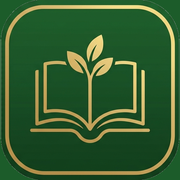
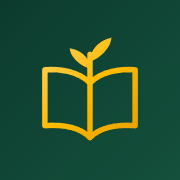
성경 조판 완화 + PWA 아이콘 금테 제거 + 성경통독 타이포/정렬 정리
성경 본문
- 행간 1.62 -> 1.5, 굵기 600 -> 500 (너무 볼드하던 문제)
- NIV 영문을 한글과 동일한 행간/굵기/크기로 통일 (md 구간 크기가 달라 실제 행간이 어긋나던 것 수정)

PWA 아이콘
- 금색 사각 테두리가 가장자리에 붙어 있어 OS 마스크에 잘리던 문제 해결
- 테두리를 없애고 문양을 안전영역 안쪽(마스커블 24%, 일반 17%)으로 재배치
- icon-192 / icon-512 / icon-maskable-512 / apple-touch-icon 4종 재생성
- manifest 색상을 새 팔레트로, sw 캐시 v3 -> v4 (옛 아이콘 캐시 무효화)

성경통독 탭
- 글자 크기 7종 -> 4종 (제목 / 소제목 / 본문 / 캡션)
- 굵기 5종 -> 2종 (bold / medium), 보조 설명은 medium 으로 낮춰 위계 확보
- 좌측 정렬: 카드 안쪽 여백이 p-4 / p-3.5 / p-2.5 로 제각각이라 글 시작 위치가
  카드마다 어긋나던 문제를 p-4 sm:p-6 으로 통일 (실측 결과 전 카드 x=22 로 일치)

diff --git a/src/components/BibleReader.tsx b/src/components/BibleReader.tsx
@@ -358,7 +358,7 @@ export default function BibleReader({ currentUser, onSelectVerseForMeditation, i
                   <span className="font-bold text-[#D2DDD3] flex items-center gap-1.5">
                     목표: {userProgress?.goalTitle || "1년 1독 (전체 1,189장)"}
                   </span>
-                  <span className="font-black text-[#FFFFFF] text-sm">
+                  <span className="font-bold text-[#FFFFFF] text-sm">
                     {completedCount}장 / {targetCount}장 ({progressPercent}%)
                   </span>
                 </div>
@@ -371,7 +371,7 @@ export default function BibleReader({ currentUser, onSelectVerseForMeditation, i
                   />
                 </div>
 
-                <div className="flex justify-between items-center text-2xs text-[#D2DDD3]/80 mt-2 font-medium">
+                <div className="flex justify-between items-center text-xs text-[#D2DDD3]/80 mt-2 font-medium">
                   <span>일일 추천: 하루 {userProgress?.dailyTarget || 3}장씩</span>
                   <span>남은 분량: {Math.max(0, targetCount - completedCount)}장</span>
                 </div>
@@ -380,7 +380,7 @@ export default function BibleReader({ currentUser, onSelectVerseForMeditation, i
               {/* Today's Bookmark / Last Read Box */}
               <div className="bg-white/10 p-4 rounded-3xl flex flex-col justify-between">
                 <div>
-                  <span className="text-2xs text-[#D2DDD3]/80 font-bold block flex items-center gap-1">
+                  <span className="text-xs text-[#D2DDD3]/80 font-bold block flex items-center gap-1">
                     마지막 읽은 본문 북마크
                   </span>
                   <strong className="text-base font-bold text-white block mt-1">
@@ -408,11 +408,11 @@ export default function BibleReader({ currentUser, onSelectVerseForMeditation, i
       )}
 
       {/* 2. 원터치 성경 네비게이터 (구약/신약 → 권 → 장 → 절) */}
-      <div className="bg-white rounded-3xl sm:rounded-[32px] shadow-sm p-3.5 sm:p-5 space-y-3 sm:space-y-4">
+      <div className="bg-white rounded-3xl sm:rounded-[32px] shadow-sm p-4 sm:p-6 space-y-3 sm:space-y-4">
         <div className="flex items-center gap-2 border-b border-[#E3E9E2] pb-3">
           <div>
-            <h4 className="font-bold text-[#0C3B2E] text-base sm:text-lg">성경 선택</h4>
-            <p className="text-xs text-[#6F8377]">구약 · 신약에서 권 · 장 · 절을 눌러 바로 펼쳐 보세요.</p>
+            <h4 className="font-bold text-[#0C3B2E] text-base sm:text-base">성경 선택</h4>
+            <p className="text-xs text-[#6F8377] font-medium">구약 · 신약에서 권 · 장 · 절을 눌러 바로 펼쳐 보세요.</p>
           </div>
         </div>
 
@@ -436,7 +436,7 @@ export default function BibleReader({ currentUser, onSelectVerseForMeditation, i
 
         {/* Custom Search Input */}
         <div className="pt-3 border-t border-[#E3E9E2] space-y-1.5">
-          <label className="flex items-center gap-1.5 text-xs font-bold text-[#6F8377]">
+          <label className="flex items-center gap-1.5 text-xs font-medium text-[#6F8377]">
             단어로 구절 찾기
           </label>
           <form
@@ -453,7 +453,7 @@ export default function BibleReader({ currentUser, onSelectVerseForMeditation, i
                 value={query}
                 onChange={(e) => setQuery(e.target.value)}
                 placeholder="단어로 구절 찾기 (예: 사랑, 요한복음 1장, 로마서 8:28)..."
-                className="w-full pl-3 pr-9 py-2.5 bg-[#F5F5F5] rounded-3xl text-xs font-semibold text-[#14261E] focus:outline-none focus:ring-2 focus:ring-[#4A6B57]"
+                className="w-full pl-3 pr-9 py-2.5 bg-[#F5F5F5] rounded-3xl text-xs font-bold text-[#14261E] focus:outline-none focus:ring-2 focus:ring-[#4A6B57]"
               />
               <button
                 type="submit"
@@ -478,7 +478,7 @@ export default function BibleReader({ currentUser, onSelectVerseForMeditation, i
       <div ref={readerRef} className="scroll-mt-4" />
       <AnimatePresence mode="wait">
         {loading && (
-          <div className="bg-white rounded-[32px] p-12 text-center shadow-sm">
+          <div className="bg-white rounded-[32px] p-4 sm:p-6 py-12 text-center shadow-sm">
             <Loader className="animate-spin text-[#4A6B57] mx-auto mb-3" size={32} />
             <p className="text-sm font-bold text-[#0C3B2E]">성경 본문을 불러오고 있습니다...</p>
             <p className="text-xs text-[#6F8377] mt-1">1절부터 그 장의 마지막 절까지 전체 구절을 준비 중입니다.</p>
@@ -486,7 +486,7 @@ export default function BibleReader({ currentUser, onSelectVerseForMeditation, i
         )}
 
         {!loading && error && (
-          <div className="bg-[#FDF3F3] rounded-3xl sm:rounded-[32px] p-6 text-center text-[#7A1913] text-xs sm:text-sm font-semibold space-y-3">
+          <div className="bg-[#FDF3F3] rounded-3xl sm:rounded-[32px] p-4 sm:p-6 text-center text-[#7A1913] text-xs sm:text-sm font-bold space-y-3">
             <p>{error}</p>
             <button
               type="button"
@@ -507,11 +507,11 @@ export default function BibleReader({ currentUser, onSelectVerseForMeditation, i
             className="space-y-4"
           >
             {/* Main Chapter Content Card */}
-            <div className="bg-white rounded-3xl sm:rounded-[32px] p-2.5 sm:p-6 md:p-8 shadow-sm space-y-2.5 sm:space-y-4">
+            <div className="bg-white rounded-3xl sm:rounded-[32px] p-4 sm:p-6 shadow-sm space-y-2.5 sm:space-y-4">
               <div className="flex flex-col sm:flex-row justify-between items-start sm:items-center gap-2.5 border-b border-[#E3E9E2] pb-3">
                 <div className="w-full sm:w-auto">
                   <div className="flex flex-wrap items-center gap-1.5 mb-1">
-                    <span className="text-2xs sm:text-xs font-bold text-[#0C3B2E] bg-[#F5F5F5] px-2.5 py-0.5 rounded-full inline-flex items-center gap-1.5 whitespace-nowrap shrink-0">
+                    <span className="text-xs sm:text-xs font-bold text-[#0C3B2E] bg-[#F5F5F5] px-2.5 py-0.5 rounded-full inline-flex items-center gap-1.5 whitespace-nowrap shrink-0">
                       {userProgress?.lastReadBook && userProgress?.lastReadChapter ? (
                         `내가 직전 통독 위치: ${userProgress.lastReadBook} ${userProgress.lastReadChapter}장`
                       ) : (
@@ -519,12 +519,12 @@ export default function BibleReader({ currentUser, onSelectVerseForMeditation, i
                       )}
                     </span>
                     {userProgress?.lastReadBook === selectedBook.name && userProgress?.lastReadChapter === selectedChapter && (
-                      <span className="text-2xs font-bold text-[#0C3B2E] bg-[#F5F5F5] px-2 py-0.5 rounded-full inline-flex items-center gap-1 whitespace-nowrap shrink-0">
+                      <span className="text-xs font-bold text-[#0C3B2E] bg-[#F5F5F5] px-2 py-0.5 rounded-full inline-flex items-center gap-1 whitespace-nowrap shrink-0">
                         ✨ 이어서 보는 중
                       </span>
                     )}
                   </div>
-                  <h3 className="text-lg sm:text-2xl font-bold text-[#0C3B2E] flex items-center gap-2">
+                  <h3 className="text-base sm:text-2xl font-bold text-[#0C3B2E] flex items-center gap-2">
                     <span>{result.reference}</span>
                   </h3>
                 </div>
@@ -643,9 +643,9 @@ export default function BibleReader({ currentUser, onSelectVerseForMeditation, i
               <div className="bg-[#F5F5F5]/60 rounded-[32px] p-5">
                 <div className="flex items-center gap-1.5 text-[#0C3B2E] mb-2">
                   <Sparkles size={15} className="text-[#4A6B57]" />
-                  <span className="text-2xs font-black uppercase tracking-[0.1em] text-[#6F8377]">오늘의 통독 실천 제안</span>
+                  <span className="text-xs font-bold uppercase tracking-[0.1em] text-[#6F8377]">오늘의 통독 실천 제안</span>
                 </div>
-                <p className="text-xs text-[#0C3B2E] leading-relaxed font-semibold">
+                <p className="text-xs text-[#0C3B2E] leading-relaxed font-bold">
                   {result.meditationGuide}
                 </p>
               </div>
@@ -669,7 +669,7 @@ export default function BibleReader({ currentUser, onSelectVerseForMeditation, i
               className="bg-white w-full sm:max-w-2xl max-h-[88vh] rounded-t-3xl sm:rounded-[32px] p-4 sm:p-6 flex flex-col shadow-2xl"
             >
               <div className="flex justify-between items-center border-b border-[#E3E9E2] pb-3">
-                <h4 className="font-bold text-[#0C3B2E] text-base sm:text-lg flex items-center gap-2">
+                <h4 className="font-bold text-[#0C3B2E] text-base sm:text-base flex items-center gap-2">
                   <span
                     className={`inline-flex items-center justify-center w-7 h-7 rounded-3xl shrink-0 ${
                       navTestament === 'OT' ? "bg-[#FFBA00] text-[#0C3B2E]" : "bg-[#0C3B2E] text-white"
@@ -752,7 +752,7 @@ export default function BibleReader({ currentUser, onSelectVerseForMeditation, i
                           }`}
                         >
                           {ch}
-                          {isDone && <span className="absolute top-0.5 right-1 text-2xs">✓</span>}
+                          {isDone && <span className="absolute top-0.5 right-1 text-xs">✓</span>}
                         </button>
                       );
                     })}
@@ -762,7 +762,7 @@ export default function BibleReader({ currentUser, onSelectVerseForMeditation, i
                 {/* STEP 3: 절 선택 */}
                 {navStep === 'verse' && navBook && navChapter && (
                   <div className="space-y-2.5">
-                    <p className="text-xs font-bold text-[#6F8377]">
+                    <p className="text-xs font-medium text-[#6F8377]">
                       절을 누르면 팝업이 닫히고 본문에서 그 절로 이동합니다.
                     </p>
                     {navVerseLoading ? (
@@ -783,7 +783,7 @@ export default function BibleReader({ currentUser, onSelectVerseForMeditation, i
                         ))}
                       </div>
                     ) : (
-                      <p className="py-4 text-center text-xs text-[#6F8377]">절 정보를 표시할 수 없습니다.</p>
+                      <p className="py-4 text-center text-xs text-[#6F8377] font-medium">절 정보를 표시할 수 없습니다.</p>
                     )}
                   </div>
                 )}
@@ -842,7 +842,7 @@ export default function BibleReader({ currentUser, onSelectVerseForMeditation, i
                     value={goalTitle}
                     onChange={(e) => setGoalTitle(e.target.value)}
                     placeholder="예: 1년 1독, 신약 통독, 100일 성경통독"
-                    className="w-full p-2.5 bg-[#F5F5F5] rounded-3xl text-[#14261E] font-semibold focus:ring-2 focus:ring-[#4A6B57]"
+                    className="w-full p-2.5 bg-[#F5F5F5] rounded-3xl text-[#14261E] font-bold focus:ring-2 focus:ring-[#4A6B57]"
                     required
                   />
                 </div>
@@ -857,7 +857,7 @@ export default function BibleReader({ currentUser, onSelectVerseForMeditation, i
                         setTargetChapters(1189);
                         setDailyTarget(3);
                       }}
-                      className={`p-2 rounded-3xl text-2xs font-bold border transition cursor-pointer ${
+                      className={`p-2 rounded-3xl text-xs font-bold border transition cursor-pointer ${
                         targetChapters === 1189 ? "bg-[#0C3B2E] text-white border-[#0C3B2E]" : "bg-[#F5F5F5] text-[#4A6B57] hover:bg-[#D2DDD3]"
                       }`}
                     >
@@ -870,7 +870,7 @@ export default function BibleReader({ currentUser, onSelectVerseForMeditation, i
                         setTargetChapters(260);
                         setDailyTarget(2);
                       }}
-                      className={`p-2 rounded-3xl text-2xs font-bold border transition cursor-pointer ${
+                      className={`p-2 rounded-3xl text-xs font-bold border transition cursor-pointer ${
                         targetChapters === 260 ? "bg-[#0C3B2E] text-white border-[#0C3B2E]" : "bg-[#F5F5F5] text-[#4A6B57] hover:bg-[#D2DDD3]"
                       }`}
                     >
@@ -883,7 +883,7 @@ export default function BibleReader({ currentUser, onSelectVerseForMeditation, i
                         setTargetChapters(929);
                         setDailyTarget(3);
                       }}
-                      className={`p-2 rounded-3xl text-2xs font-bold border transition cursor-pointer ${
+                      className={`p-2 rounded-3xl text-xs font-bold border transition cursor-pointer ${
                         targetChapters === 929 ? "bg-[#0C3B2E] text-white border-[#0C3B2E]" : "bg-[#F5F5F5] text-[#4A6B57] hover:bg-[#D2DDD3]"
                       }`}
                     >
@@ -894,7 +894,7 @@ export default function BibleReader({ currentUser, onSelectVerseForMeditation, i
                     type="number"
                     value={targetChapters}
                     onChange={(e) => setTargetChapters(Number(e.target.value))}
-                    className="w-full p-2.5 bg-[#F5F5F5] rounded-3xl text-[#14261E] font-semibold"
+                    className="w-full p-2.5 bg-[#F5F5F5] rounded-3xl text-[#14261E] font-bold"
                     min={1}
                     max={1189}
                     required
@@ -907,7 +907,7 @@ export default function BibleReader({ currentUser, onSelectVerseForMeditation, i
                     type="number"
                     value={dailyTarget}
                     onChange={(e) => setDailyTarget(Number(e.target.value))}
-                    className="w-full p-2.5 bg-[#F5F5F5] rounded-3xl text-[#14261E] font-semibold"
+                    className="w-full p-2.5 bg-[#F5F5F5] rounded-3xl text-[#14261E] font-bold"
                     min={1}
                     max={50}
                     required
@@ -952,7 +952,7 @@ export default function BibleReader({ currentUser, onSelectVerseForMeditation, i
                     <ListChecks className="text-[#4A6B57]" size={20} />
                     {currentUser?.name} 성도님의 성경 66권 통독 체크리스트
                   </h4>
-                  <p className="text-2xs text-[#6F8377]">
+                  <p className="text-xs text-[#6F8377] font-medium">
                     초록색 체크 항목은 내가 이미 완독한 장입니다. 클릭하면 완독 여부를 언제든지 변경할 수 있습니다.
                   </p>
                 </div>
@@ -1001,7 +1001,7 @@ export default function BibleReader({ currentUser, onSelectVerseForMeditation, i
                       type="button"
                       onClick={() => setChecklistTab('IN_PROGRESS')}
                       className={`px-3 py-1.5 rounded-xl transition cursor-pointer whitespace-nowrap flex items-center gap-1 ${
-                        checklistTab === 'IN_PROGRESS' ? "bg-[#0C3B2E] text-white" : "hover:text-[#072A20] text-[#0C3B2E] font-black"
+                        checklistTab === 'IN_PROGRESS' ? "bg-[#0C3B2E] text-white" : "hover:text-[#072A20] text-[#0C3B2E] font-bold"
                       }`}
                     >
                       🔥 통독 진행 중
@@ -1075,17 +1075,17 @@ export default function BibleReader({ currentUser, onSelectVerseForMeditation, i
                     }`}>
                       <div className="flex justify-between items-center mb-2">
                         <span className="font-bold text-[#0C3B2E] text-sm flex items-center gap-2">
-                          <span className="text-2xs bg-[#F5F5F5] text-[#0C3B2E] px-2 py-0.5 rounded-full font-black">
+                          <span className="text-xs bg-[#F5F5F5] text-[#0C3B2E] px-2 py-0.5 rounded-full font-bold">
                             {b.testament === 'OT' ? '구약' : '신약'}
                           </span>
                           {b.name} ({b.chapters}장)
                           {isLastReadBook && (
-                            <span className="text-2xs font-extrabold bg-[#C7D8C9] text-[#0C3B2E] px-2 py-0.5 rounded-full">
+                            <span className="text-xs font-bold bg-[#C7D8C9] text-[#0C3B2E] px-2 py-0.5 rounded-full">
                               📍 내가 읽는 중
                             </span>
                           )}
                         </span>
-                        <span className="text-2xs font-bold text-[#4A6B57]">
+                        <span className="text-xs font-bold text-[#4A6B57]">
                           {bookCompletedCount} / {b.chapters}장 완료 ({Math.round((bookCompletedCount / b.chapters) * 100)}%)
                         </span>
                       </div>
@@ -1102,11 +1102,11 @@ export default function BibleReader({ currentUser, onSelectVerseForMeditation, i
                               key={ch}
                               type="button"
                               onClick={() => handleToggleChapterComplete(key)}
-                              className={`w-8 h-8 rounded-3xl font-bold text-2xs transition cursor-pointer flex items-center justify-center relative ${
+                              className={`w-8 h-8 rounded-3xl font-bold text-xs transition cursor-pointer flex items-center justify-center relative ${
                                 isDone
-                                  ? "bg-[#0C3B2E] text-white shadow-sm font-black"
+                                  ? "bg-[#0C3B2E] text-white shadow-sm font-bold"
                                   : isCurrentReadingLocation
-                                  ? "bg-[#FFBA00] text-[#0C3B2E] font-extrabold"
+                                  ? "bg-[#FFBA00] text-[#0C3B2E] font-bold"
                                   : "bg-[#F5F5F5] hover:bg-[#D2DDD3] text-[#4A6B57]"
                               }`}
                               title={`${key} ${isDone ? "완독 해제" : "완독 표시"}`}

diff --git a/src/components/DualBibleText.tsx b/src/components/DualBibleText.tsx
@@ -70,7 +70,7 @@ export default function DualBibleText({ krvText, nivText = "", mode, className =
             {/* 개역개정 (krv/both 모드) */}
             {!nivOnly && (
               <p
-                className="text-sm sm:text-base md:text-lg leading-[1.62] text-[#333333] font-semibold scripture-font [word-break:keep-all] [overflow-wrap:break-word]"
+                className="text-sm sm:text-base md:text-lg leading-[1.5] text-[#333333] font-medium scripture-font [word-break:keep-all] [overflow-wrap:break-word]"
                 style={{ wordBreak: "keep-all", overflowWrap: "break-word" }}
               >
                 {v.num && (
@@ -85,7 +85,7 @@ export default function DualBibleText({ krvText, nivText = "", mode, className =
             {/* NIV (niv 단독, 또는 both 모드에서 개역개정 아래) */}
             {(nivOnly || (mode === "both" && niv)) && (
               <p
-                className={`text-sm sm:text-base leading-[1.62] text-[#8A6642] font-medium scripture-font [overflow-wrap:break-word] ${
+                className={`text-sm sm:text-base md:text-lg leading-[1.5] text-[#8A6642] font-medium scripture-font [overflow-wrap:break-word] ${
                   mode === "both" ? "mt-2.5 pl-0.5" : ""
                 }`}
                 style={{ overflowWrap: "break-word" }}

diff --git a/src/components/FormattedBibleText.tsx b/src/components/FormattedBibleText.tsx
@@ -72,7 +72,7 @@ export default function FormattedBibleText({
           }`}
         >
           <p
-            className="text-sm sm:text-base md:text-lg leading-[1.62] text-[#333333] font-semibold scripture-font [word-break:keep-all] [overflow-wrap:break-word]"
+            className="text-sm sm:text-base md:text-lg leading-[1.5] text-[#333333] font-medium scripture-font [word-break:keep-all] [overflow-wrap:break-word]"
             style={{ wordBreak: "keep-all", overflowWrap: "break-word" }}
           >
             {v.verseNum && (

diff --git a/public/sw.js b/public/sw.js
@@ -1,6 +1,6 @@
 // Service Worker for Bible Meditation Share PWA
 // 아이콘/매니페스트 갱신 시 버전을 올리면 이전 캐시가 자동 삭제됩니다.
-const CACHE_NAME = "bible-meditation-v3";
+const CACHE_NAME = "bible-meditation-v4";
 const ASSETS = [
   "/",
   "/index.html",

diff --git a/src/index.css b/src/index.css
@@ -121,8 +121,8 @@ button {
 }
 
 .scripture-font p {
-  line-height: 1.62;
-  font-weight: 600;
+  line-height: 1.5;
+  font-weight: 500;
 }
 
 /* Font Scaling for Adults & Seniors */
